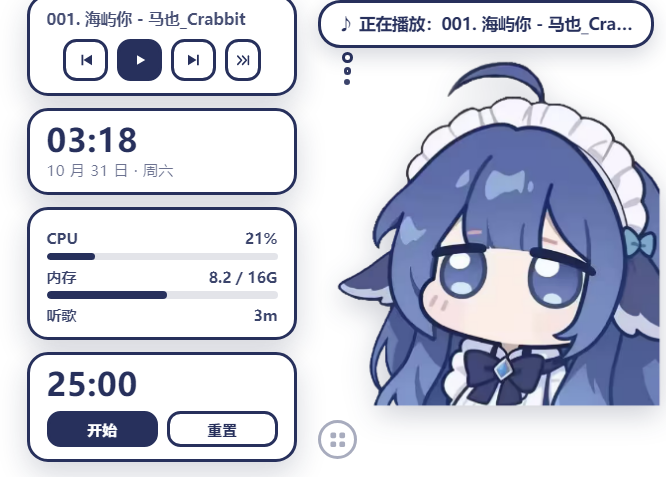
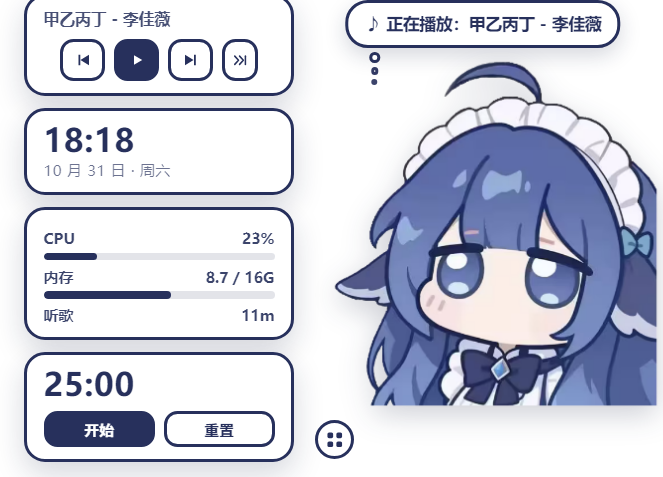
feat: 收藏页可手动/自动刷新；登录窗加刷新二维码；窗口默认加大并记忆尺寸
- 收藏页右上角「↻ 刷新」，切回该页超过 60s 自动静默刷新，收藏夹删除后自动回退
- 登录窗注入「刷新二维码」浮动按钮，支持 Ctrl+R / F5 重载
- 播放器默认 640x900（首次居中），窗口大小与位置写入 winBounds 下次恢复
- 正文基础字号 13 -> 13.5px，同步 docs/images 截图

diff --git a/main.js b/main.js
@@ -195,6 +195,7 @@ async function captureShots() {
   try {
     fs.mkdirSync(dir, { recursive: true });
 
+
     if (process.argv.includes('--login-shot')) {
       openLoginWindow().catch((e) => log('login win error', e && e.stack));
       await sleep(5500);
@@ -369,15 +370,25 @@ app.on('before-quit', () => {
 
 function createPlayer() {
   const area = screen.getPrimaryDisplay().workArea;
-  const width = 560;
-  const height = Math.min(820, area.height - 40);
+  // 记住上次的窗口大小/位置；首次启动给一个更宽的默认值
+  const saved = store.get('winBounds');
+  let width = 640;
+  let height = Math.min(900, area.height - 50);
+  let x = Math.round(area.x + (area.width - width) / 2);
+  let y = Math.round(area.y + (area.height - height) / 2);
+  if (saved && saved.width >= 480 && saved.height >= 600) {
+    width = Math.min(saved.width, area.width - 20);
+    height = Math.min(saved.height, area.height - 20);
+    x = Math.min(Math.max(area.x, saved.x), area.x + area.width - width);
+    y = Math.min(Math.max(area.y, saved.y), area.y + area.height - height);
+  }
   playerWin = new BrowserWindow({
     width,
     height,
-    x: Math.round(area.x + (area.width - width) / 2),
-    y: Math.round(area.y + (area.height - height) / 2),
-    minWidth: 480,
-    minHeight: 620,
+    x,
+    y,
+    minWidth: 520,
+    minHeight: 640,
     show: false,
     frame: false,
     transparent: true,
@@ -393,6 +404,20 @@ function createPlayer() {
       spellcheck: false,
     },
   });
+
+  let saveBoundsTimer = null;
+  const persistBounds = () => {
+    clearTimeout(saveBoundsTimer);
+    saveBoundsTimer = setTimeout(() => {
+      try {
+        if (!playerWin || playerWin.isDestroyed() || playerWin.isMinimized()) return;
+        const b = playerWin.getBounds();
+        if (b.width >= 480 && b.height >= 600) store.set('winBounds', b);
+      } catch (_) {}
+    }, 500);
+  };
+  playerWin.on('resize', persistBounds);
+  playerWin.on('move', persistBounds);
 
   playerWin.loadFile(path.join(__dirname, 'renderer', 'player', 'index.html'));
 
@@ -740,6 +765,31 @@ function openLoginWindow() {
         nodeIntegration: false,
         sandbox: true,
       },
+    });
+    // 二维码会过期，页面里塞一个「刷新二维码」按钮，Ctrl+R / F5 也能重载
+    const injectRefreshBtn = () => {
+      if (!loginWin || loginWin.isDestroyed()) return;
+      loginWin.webContents
+        .executeJavaScript(`(() => {
+          if (document.getElementById('__bw_refresh')) return;
+          const b = document.createElement('button');
+          b.id = '__bw_refresh';
+          b.textContent = '刷新二维码';
+          b.title = '二维码过期了点这里（Ctrl+R）';
+          b.style.cssText = 'position:fixed;right:18px;bottom:18px;z-index:2147483647;padding:9px 16px;' +
+            'border-radius:999px;border:1px solid #00aeec;background:#fff;color:#00aeec;font-size:13px;' +
+            'font-weight:600;cursor:pointer;box-shadow:0 6px 18px rgba(0,0,0,.18)';
+          b.onclick = () => location.reload();
+          document.body.appendChild(b);
+        })()`)
+        .catch(() => {});
+    };
+    loginWin.webContents.on('did-finish-load', injectRefreshBtn);
+    loginWin.webContents.on('before-input-event', (_e, input) => {
+      const k = (input.key || '').toLowerCase();
+      if (input.type === 'keyDown' && (k === 'f5' || (input.control && k === 'r'))) {
+        loginWin.webContents.reload();
+      }
     });
     loginWin.loadURL('https://passport.bilibili.com/login');
     log('login window created', JSON.stringify(loginWin.getBounds()));

diff --git a/renderer/player/app.js b/renderer/player/app.js
@@ -34,6 +34,7 @@ const state = {
   favPage: 1,
   favHasMore: false,
   favLoading: false,
+  favFetchedAt: 0,
 };
 
 const MODES = [
@@ -238,8 +239,10 @@ function switchTab(view) {
   const isSearch = view === 'search';
   $('#searchBar').style.display = isSearch ? 'flex' : 'none';
   renderContent();
-  if (view === 'bfav' && state.auth.isLogin && !state.favFolders.length && !state.favFoldersLoading) {
-    loadFolders();
+  if (view === 'bfav' && state.auth.isLogin && !state.favFoldersLoading) {
+    // 切回收藏页时，超过 60 秒就自动静默刷新一次，保证和服务端一致
+    const stale = !state.favFolders.length || Date.now() - (state.favFetchedAt || 0) > 60000;
+    if (stale) loadFolders(false);
   }
 }
 
@@ -310,6 +313,14 @@ function renderBiliFav(box) {
       bar.appendChild(b);
     });
   }
+  const rf = document.createElement('button');
+  rf.className = 'chip refresh' + (state.favFoldersLoading ? ' spinning' : '');
+  rf.title = '刷新收藏夹内容';
+  rf.textContent = '↻ 刷新';
+  rf.onclick = () => {
+    if (!state.favFoldersLoading) loadFolders(true);
+  };
+  bar.appendChild(rf);
   box.appendChild(bar);
 
   if (state.favLoading) {
@@ -375,14 +386,20 @@ async function doLogout() {
   renderContent();
 }
 
-async function loadFolders() {
+async function loadFolders(manual = false) {
   state.favFoldersLoading = true;
   renderContent();
   const r = await bridge.favFolders();
   state.favFoldersLoading = false;
   if (r.ok && r.data) {
     state.favFolders = r.data;
-    if (!state.favFolderId && r.data.length) state.favFolderId = r.data.length ? r.data[0].id : null;
+    state.favFetchedAt = Date.now();
+    if (!state.favFolderId && r.data.length) state.favFolderId = r.data[0].id;
+    // 原来选中的收藏夹可能被删了，回退到第一个
+    if (state.favFolderId && !r.data.some((f) => f.id === state.favFolderId)) {
+      state.favFolderId = r.data.length ? r.data[0].id : null;
+    }
+    if (manual) toast('收藏夹已刷新');
   } else {
     state.favFolders = [];
     toast(r.error || '获取收藏夹失败');
@@ -1088,3 +1105,5 @@ async function boot() {
 
 boot();
 
+// 调试/自动化截图用：控制台里可以拿到状态、手动切页
+window.__biu = { state, renderContent, loadFolders, switchTab, refreshFavorites: () => loadFolders(true) };

diff --git a/renderer/player/index.html b/renderer/player/index.html
@@ -25,7 +25,7 @@
     overflow: hidden;
     color: var(--text);
     font-family: "Microsoft YaHei UI", "Microsoft YaHei", "Segoe UI", system-ui, -apple-system, sans-serif;
-    font-size: 13px;
+    font-size: 13.5px;
     user-select: none;
     -webkit-user-select: none;
   }
@@ -313,7 +313,9 @@
   .user-meta { flex: 1; display: flex; flex-direction: column; min-width: 0; }
   .user-meta b { font-size: 12.5px; }
   .user-meta span { font-size: 10.5px; color: var(--muted); margin-top: 2px; }
-  .folder-bar { display: flex; gap: 6px; flex-wrap: wrap; padding: 4px 8px 10px; }
+  .folder-bar { display: flex; gap: 6px; flex-wrap: wrap; align-items: center; padding: 4px 8px 10px; }
+  .chip.refresh { margin-left: auto; color: var(--accent); border-color: rgba(143, 180, 255, 0.35); }
+  .chip.refresh.spinning { opacity: 0.6; }
   .chip.on { color: #fff; border-color: rgba(122, 162, 255, 0.52); background: rgba(122, 162, 255, 0.14); }
   .muted { font-size: 11px; color: var(--muted); }
 

diff --git a/README.md b/README.md
@@ -51,10 +51,11 @@
 - **多 P 合集自动展开**：遇到「100 首合集」这类多分 P 视频，会自动把每个分 P 拆成队列条目，
   每一条都按「曲名 - 歌手」解析并显示歌名。
 - **下一歌单**：播放条上「»|」按钮跳过当前合集，直接播放下一个歌单的第一首。
+- **B站收藏刷新**：收藏页右上角「↻ 刷新」手动刷新；切回收藏页且数据超过 60 秒也会自动静默刷新。
 - **歌词**：播放条右侧「词」按钮打开歌词面板，按当前播放时间逐行高亮并自动滚动，点某一行可以跳转；
   找不到歌词时面板里直接显示歌名和「暂无歌词」。
 - **播放器**：播放/暂停、上一首/下一首、列表循环/单曲循环/随机、进度拖动、播放队列抽屉。
-- **深色界面**：近黑底 + 冷蓝/紫点缀，默认窗口 **560×820**（可自由缩放），标题栏用新图标。
+- **深色界面**：近黑底 + 冷蓝/紫点缀，默认窗口 **640×900**（首次居中，之后记住你拖出来的大小和位置），标题栏用新图标。
 - **托盘 + 媒体键**：托盘菜单控制播放、显示/隐藏桌宠；媒体键全局可用。
 - **设置**：桌宠大小、置顶、音量（不再需要手动粘贴 Cookie，登录走右上角账号）。
 
